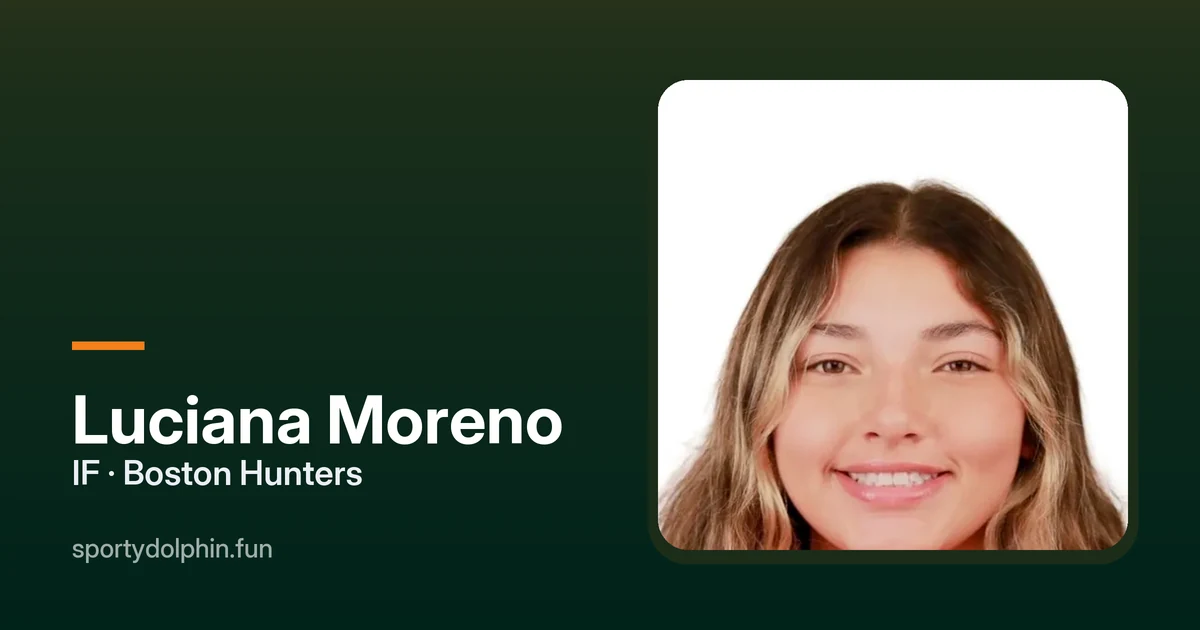
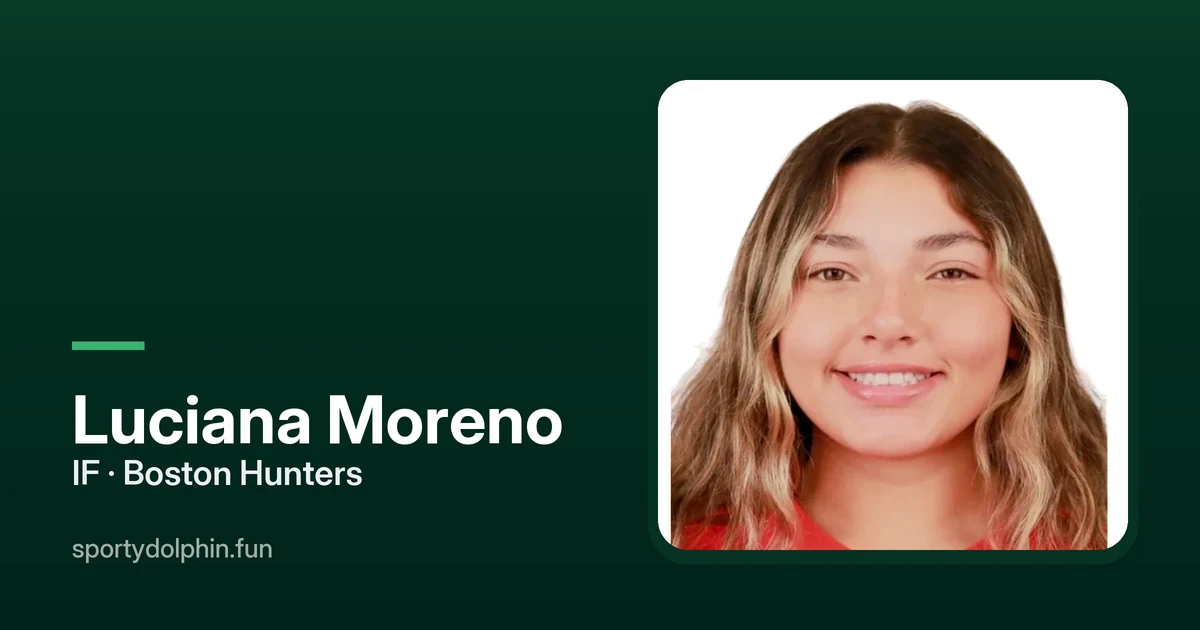
WPBL portraits: Atkinson and Moreno recropped (v1.260.1) (#340)
Both came from the Aug 4, 2026 face crop, which framed Chloe Atkinson's
head small and low and
cut Luciana Moreno off at the chin. Same league photos, reframed with
npm run portraits to the
roster's usual face size and position. Moreno's file is narrower than a
full frame, so hers is
cropped 1.3x tighter to keep the straight edge of the file outside the
circle.

🤖 Generated with [Claude Code](https://claude.com/claude-code)

Changed region(s): [[0.5242, 0.1508, 0.9558, 0.8746], [0.0, 0.0, 1.0, 0.0905], [0.0617, 0.5429, 0.1233, 0.573]]

diff --git a/src/changelog.ts b/src/changelog.ts
@@ -24,6 +24,16 @@ export async function loadOlderChangelog(): Promise<ChangelogEntry[]> {
 
 export const CHANGELOG: ChangelogEntry[] = [
   {
+    version: '1.260.1',
+    date:    '2026-11-22',
+    changes: [
+      {
+        short: 'WPBL portraits: two recropped',
+        full:  "Chloe Atkinson's and Luciana Moreno's portraits are framed like the rest of the roster. Atkinson's was small and low in the frame, and Moreno's was cut off at the chin.",
+      },
+    ],
+  },
+  {
     version: '1.260.0',
     date:    '2026-11-22',
     changes: [

diff --git a/src/version.ts b/src/version.ts
@@ -20,7 +20,7 @@
 // Keep writing one entry per version regardless. The grouping is derived on render and the
 // file stays the record.
 
-export const APP_VERSION = '1.260.0'
+export const APP_VERSION = '1.260.1'
 
 export interface ChangelogChange {
   short: string
